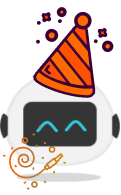
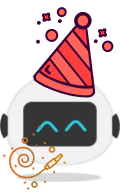
Alterando cor do modal de conclusão quente

diff --git a/repeticao/index.html b/repeticao/index.html
@@ -197,9 +197,9 @@
             <!--O Modal de conclusão do jogo-->
             <div id="modalFim">
                 <div id="modalContent">
-                    <div id="roboIcon"><img src="../img/modal/robo-end-frio.png" alt="Robo de festa"></div>
-                    <div id="modalGlass"></div>
-                    <div id="modalBox">
+                    <div id="roboIcon"><img src="../img/modal/robo-end-quente.png" alt="Robo de festa"></div>
+                    <div id="modalGlassQuente"></div>
+                    <div id="modalBoxQuente">
                         <div id="textZone">
                             <h2>PARABÉNS</h2>
                             <h3>Você concluiu o jogo!!!</h3>
@@ -207,8 +207,8 @@
                     </div>
                 </div>
                 <section id="botao-box">
-                    <button id="botao-restart" class="botao-fim">Reiniciar</button>
-                    <button id="botao-certificado" class="botao-fim">Certificado</button>
+                    <button id="botao-restart" class="botao-fim-quente">Reiniciar</button>
+                    <button id="botao-certificado" class="botao-fim-quente">Certificado</button>
                 </section>
             </div>
             </section>

diff --git a/sequencia numero/index.html b/sequencia numero/index.html
@@ -164,9 +164,9 @@
             <!--O Modal de conclusão do jogo-->
             <div id="modalFim">
                 <div id="modalContent">
-                    <div id="roboIcon"><img src="../img/modal/robo-end-frio.png" alt="Robo de festa"></div>
-                    <div id="modalGlass"></div>
-                    <div id="modalBox">
+                    <div id="roboIcon"><img src="../img/modal/robo-end-quente.png" alt="Robo de festa"></div>
+                    <div id="modalGlassQuente"></div>
+                    <div id="modalBoxQuente">
                         <div id="textZone">
                             <h2>PARABÉNS</h2>
                             <h3>Você concluiu o jogo!!!</h3>
@@ -174,8 +174,8 @@
                     </div>
                 </div>
                 <section id="botao-box">
-                    <button id="botao-restart" class="botao-fim">Reiniciar</button>
-                    <button id="botao-certificado" class="botao-fim">Certificado</button>
+                    <button id="botao-restart" class="botao-fim-quente">Reiniciar</button>
+                    <button id="botao-certificado" class="botao-fim-quente">Certificado</button>
                 </section>
             </div>
 

diff --git a/crie seu padrao/index.html b/crie seu padrao/index.html
@@ -173,8 +173,8 @@
             <div id="modalFim">
                 <div id="modalContent">
                     <div id="roboIcon"><img src="../img/modal/robo-end-quente.png" alt="Robo de festa"></div>
-                    <div id="modalGlass"></div>
-                    <div id="modalBox">
+                    <div id="modalGlassQuente"></div>
+                    <div id="modalBoxQuente">
                         <div id="textZone">
                             <h2>PARABÉNS</h2>
                             <h3>Você concluiu o jogo!!!</h3>
@@ -182,8 +182,8 @@
                     </div>
                 </div>
                 <section id="botao-box">
-                    <button id="botao-restart" class="botao-fim">Reiniciar</button>
-                    <button id="botao-certificado" class="botao-fim">Certificado</button>
+                    <button id="botao-restart" class="botao-fim-quente">Reiniciar</button>
+                    <button id="botao-certificado" class="botao-fim-quente">Certificado</button>
                 </section>
             </div>
             </section>

diff --git a/style/page-style.css b/style/page-style.css
@@ -1194,6 +1194,35 @@ button.botao-fim {
     margin-left: 30px;
     border: none;
 }
+div#modalBoxQuente{
+    background: linear-gradient(90deg, #F4683C 6.72%, #FF3E3E 93.1%);
+    clip-path: polygon(15% 0, 100% 0, 85% 100%, 0 100%);
+    min-width: 625px;
+    width: 75%;
+    height: 100%;  
+    display: flex;
+    align-items: center;
+    justify-content: center;
+}
+
+div#modalGlassQuente{
+    background-color: rgba(245, 105, 60, 0.3);
+    position: absolute;
+    min-height: 70px;
+    width: 100%;
+    border-radius: 10px;
+}
+
+button.botao-fim-quente{
+    background-color: #FF3E3E;
+    font-size: 1em;
+    font-weight: 700;
+    color: white;
+    border-radius: 25px;
+    padding: 10px 15px;
+    margin-left: 30px;
+    border: none;
+}
 @keyframes loadleft{
     from{opacity: 0;transform: translate(30%,-50%)}
     to{opacity: 1;transform: translate(50%,-50%)}

diff --git a/sequencia numero/style/game-style.css b/sequencia numero/style/game-style.css
@@ -536,18 +536,6 @@ div.formas-titulo {
     width: 100%;
 }
 
-/*Modal de conclusão*/
-div#modalBox{
-    background: linear-gradient(90deg, #FF5C00 6.72%, #FFA767 93.1%);
-}
-
-div#modalGlass{
-    background-color: rgba(255, 92, 0, 0.3);
-}
-
-button.botao-fim{
-    background-color: #FC7622;
-}
 
 @media(orientation: landscape) AND (max-width: 1280px){
 

diff --git a/crie seu padrao/game-style.css b/crie seu padrao/game-style.css
@@ -558,22 +558,6 @@ div.formas-titulo {
     width: 100%;
 }
 
-/*Modal de conclusão*/
-div#modalBox{
-    background: linear-gradient(90deg, #FF5C00 6.72%, #FFA767 93.1%);
-}
-
-div#modalGlass{
-    background-color: rgba(255, 92, 0, 0.3);
-}
-
-button.botao-fim{
-    background-color: #FC7622;
-}
-
-
-
-
 @media(orientation: portrait) {
 
 

diff --git a/repeticao/game-style.css b/repeticao/game-style.css
@@ -571,18 +571,6 @@ div.formas-titulo {
     width: 100%;
 }
 
-/*Modal de conclusão*/
-div#modalBox{
-    background: linear-gradient(90deg, #FF5C00 6.72%, #FFA767 93.1%);
-}
-
-div#modalGlass{
-    background-color: rgba(255, 92, 0, 0.3);
-}
-
-button.botao-fim{
-    background-color: #FC7622;
-}
 
 @media(orientation: portrait) {
 

diff --git a/repeticao/script/game-script.js b/repeticao/script/game-script.js
@@ -411,6 +411,7 @@ function game() {
       		formasDistintas = 4;
       		tamanhosDistintos = 1;
       		contornosDistintos = 1;
+			endGame = true
       		break;
       	case 1:     		
       		tamNucleo = 1;
